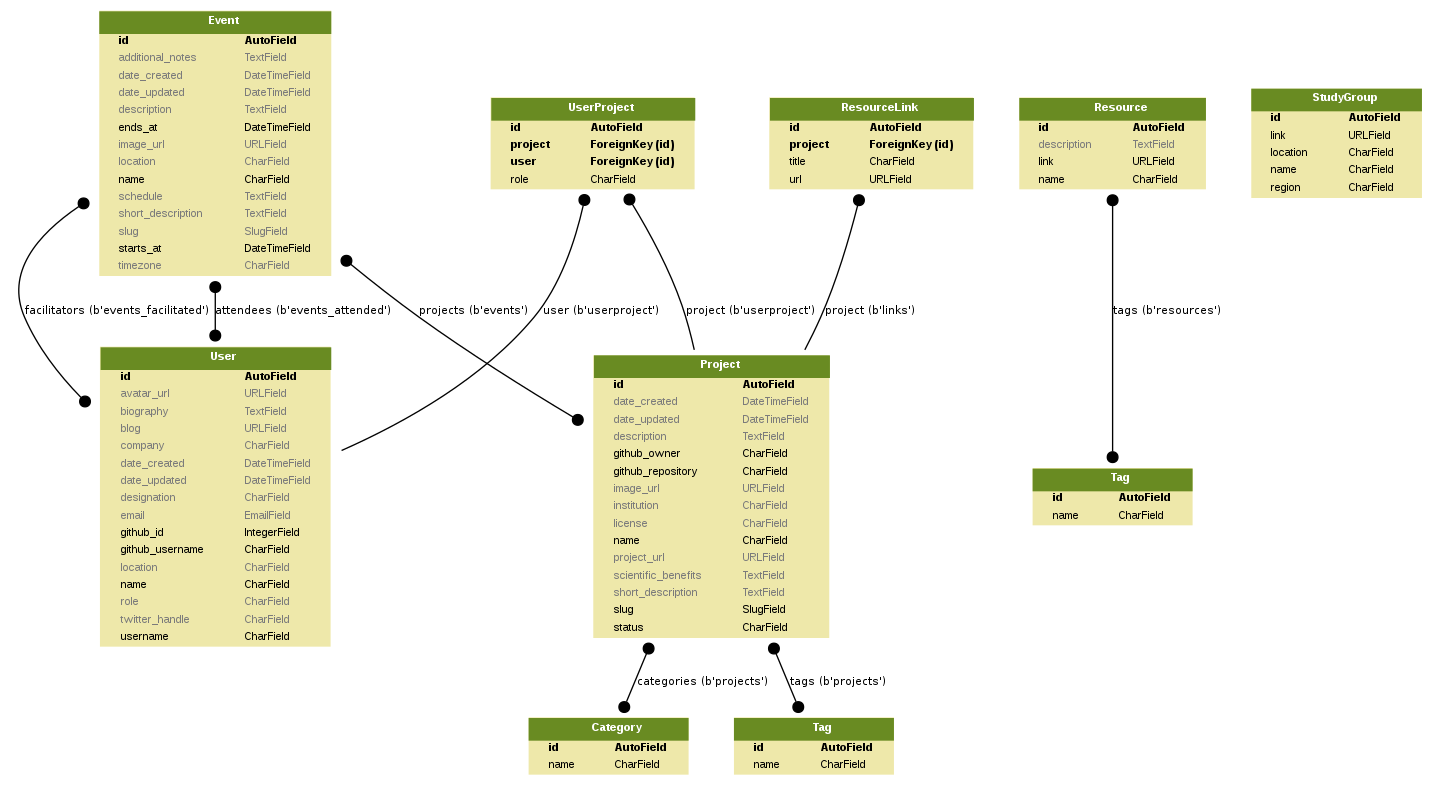
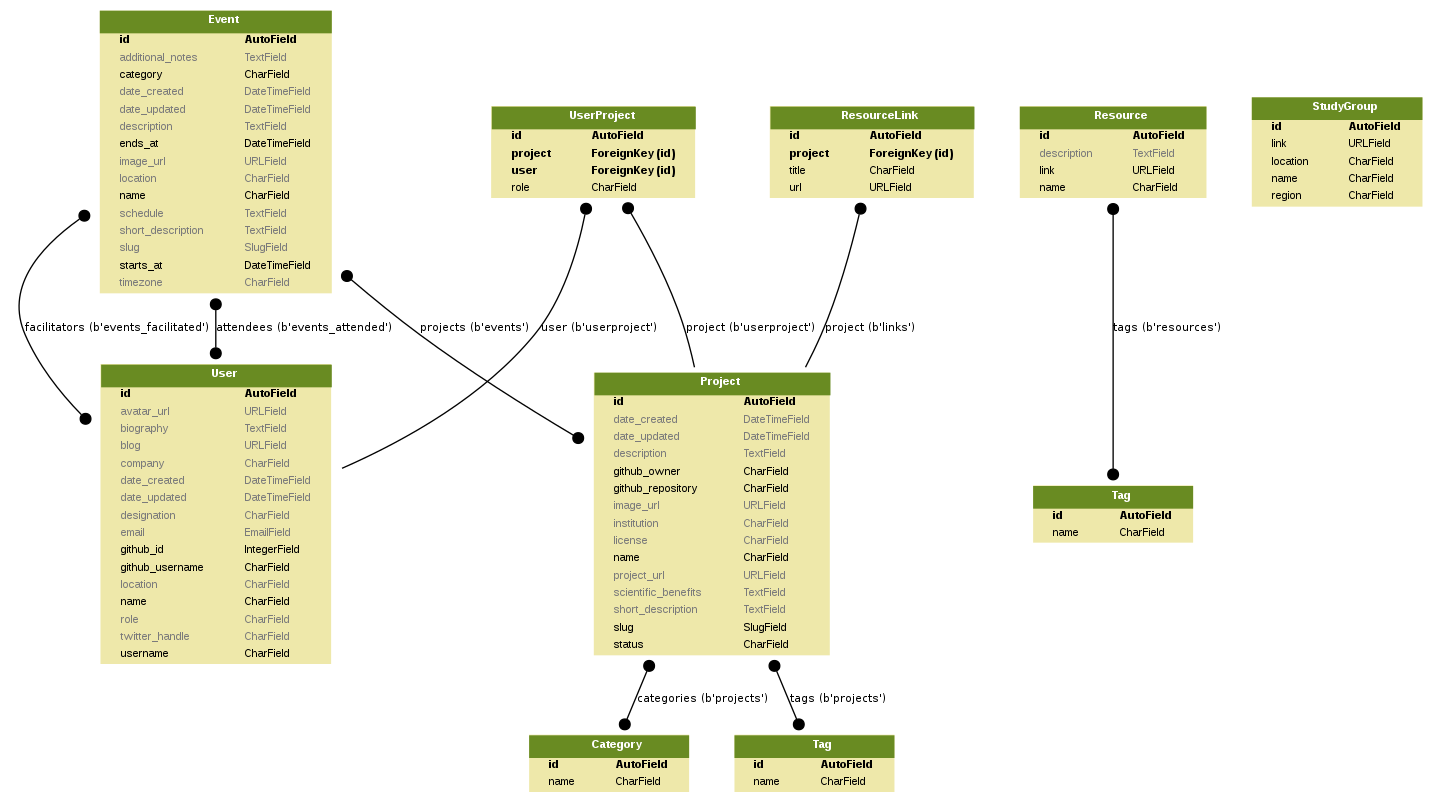
Add event type to event view in API
Add filtering based on the category of events

Fixes mozilla/science.mozilla.org/#592

diff --git a/app/scienceapi/events/migrations/0006_event_category.py b/app/scienceapi/events/migrations/0006_event_category.py
@@ -1,0 +1,20 @@
+# -*- coding: utf-8 -*-
+# Generated by Django 1.9.5 on 2017-03-15 09:45
+from __future__ import unicode_literals
+
+from django.db import migrations, models
+
+
+class Migration(migrations.Migration):
+
+    dependencies = [
+        ('events', '0005_event_short_description'),
+    ]
+
+    operations = [
+        migrations.AddField(
+            model_name='event',
+            name='category',
+            field=models.CharField(choices=[('Project Call', 'Project Call'), ('Study Group Call', 'Study Group Call'), ('Community Call', 'Community Call'), ('Workshop', 'Workshop'), ('Sprint', 'Sprint'), ('MozFest', 'MozFest'), ('Conference', 'Conference'), ('Meetup', 'Meetup'), ('Convening', 'Convening')], default='Project Call', help_text='Select the type of event', max_length=50),
+        ),
+    ]

diff --git a/app/scienceapi/events/models.py b/app/scienceapi/events/models.py
@@ -27,6 +27,22 @@ class Event(models.Model):
     Science site
     """
     name = models.CharField(max_length=300)
+    category = models.CharField(
+        max_length=50,
+        default='Project Call',
+        choices=(
+            ('Project Call', 'Project Call'),
+            ('Study Group Call', 'Study Group Call'),
+            ('Community Call', 'Community Call'),
+            ('Workshop', 'Workshop'),
+            ('Sprint', 'Sprint'),
+            ('MozFest', 'MozFest'),
+            ('Conference', 'Conference'),
+            ('Meetup', 'Meetup'),
+            ('Convening', 'Convening'),
+        ),
+        help_text='Select the type of event'
+    )
     image_url = models.URLField(
         max_length=500,
         null=True,

diff --git a/app/scienceapi/events/views.py b/app/scienceapi/events/views.py
@@ -70,7 +70,13 @@ class EventsListView(ListAPIView):
 
     def get_queryset(self):
         filter = self.request.query_params.get('filter')
-        queryset = Event.objects.all()
+        category = self.request.query_params.get('category')
+        if category is None:
+            category = 'all'
+        if category == 'all':
+            queryset = Event.objects.all()
+        else:
+            queryset = Event.objects.filter(category=category)
 
         if filter == 'past':
             return queryset.past()
